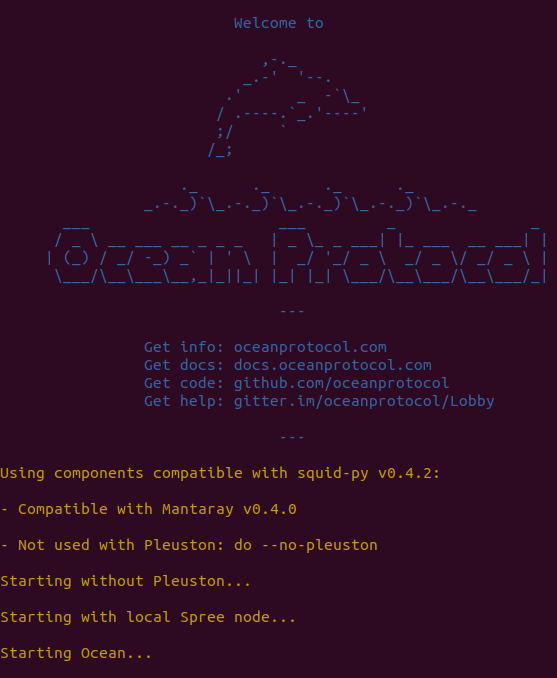
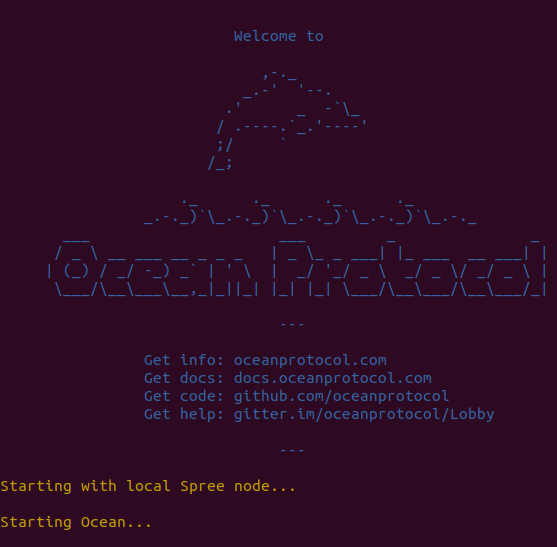
Removed new option, changed default vers, added --stable

diff --git a/README.md b/README.md
@@ -44,38 +44,46 @@ It's overkill, but to be _sure_ that you use exactly the Docker images and volum
 docker system prune --all --volumes
 ```
 
-(An alternative would be to add the options `--purge` and `--force-pull` in your call to `./start_ocean.sh` below but that's not as sure as the above command.)
+(An alternative would be to add the options `--purge` and `--force-pull` in your call to the `start_ocean.sh` script below but that's not as sure as the above command.)
 
-If you're new to Barge, it's best to pin components (e.g. Aquarius, Brizo and Keeper Contracts) to a set of specific versions known to work with a specific version of squid-py, squid-js, etc.
-For example, if you do:
+If you're new to Barge, it's best to do something like:
 
 ```bash
 git clone git@github.com:oceanprotocol/barge.git
 cd barge
-./start_ocean.sh --squid-py-v0.4.2-compatible --no-pleuston --local-spree-node
+
+./start_ocean.sh --local-spree-node
 ```
 
-then you'll freeze Aquarius, Brizo and Keeper Contracts at versions known to work with squid-py v0.4.2 (and Mantaray 0.4.0). The above command will also not run Pleuston (because squid-py users don't usually need to run Pleuston) and will run a local Spree node (explained more below).
+with no `--latest` or `--stable` option. That will run the current default versions of Aquarius, Brizo and Keeper Contracts (listed in the table below). It will also run the _latest_ version of Pleuston and a local Spree node (explained more below). If you don't specify what kind of local node to run (e.g. using `--local-spree-node`) then the default is to run a local Nile node (i.e. `--local-nile-node`).
 
 <img width="535" alt="Welcome to Ocean Protocol" src="Welcome_to_Ocean_Protocol.png">
 
----
-
-If you want to use the latest versions of Aquarius, Brizo, Keeper Contracts and Pleuston (with the Docker image tag `latest`, based on the `develop` branches), then include `--latest` in the call to `start_ocean.sh`. You can pin one or all of the versions (to something other than `latest` by setting some environment variables explicitly (e.g. `KEEPER_VERSION=v0.6.12`). Read the `start_ocean.sh` code for details.
-
-If you don't pin the versions of components (with an option like `--latest` or `--squid-py-v0.4.2-compatible`), then the default is to use the Docker images with Docker image tag `stable` (based on the `master` branches). You can pin one or all of the versions (to something other than `stable` by setting some environment variables explicitly (e.g. `KEEPER_VERSION=v0.6.12`). Read the `start_ocean.sh` code for details.
-
-If you don't specify what kind of local node to run (e.g. using `--local-spree-node`) then the default is to run a local Nile node (i.e. `--local-nile-node`).
-
 ## Script Options
 
-The `./start_ocean.sh` script provides the following options:
+Options that set the versions (Docker image tags) of Aquarius, Brizo, Keeper Contracts and Pleuston:
+
+Option      | Aquarius  | Brizo    | Keeper   | Pleuston | Notes
+------------|-----------|----------|----------|----------|-------
+`--latest`  | `latest`  | `latest` | `latest` | `latest` |
+`--stable`  | `stable`  | `stable` | `stable` | `stable` |
+(Default)   | `v0.1.10` | `v0.2.2` | `v0.6.12`| `latest` | Works with squid-py v0.4.2. Pleuston & squid-js not working yet.
+
+Note: The `latest` Docker image tag derives from the `develop` branch of the component's Git repo and the `stable` Docker image tag derives from the `master` branch.
+
+You can override the Docker image tag used for a particular component by setting its associated environment variable (`AQUARIUS_VERSION`, `BRIZO_VERSION`, `KEEPER_VERSION` or `PLEUSTON_VERSION`) before calling `start_ocean.sh`. For example:
+
+```bash
+export BRIZO_VERSION=v0.2.1
+./start_ocean.sh --local-spree-node
+```
+
+will use the default Docker image tags for Aquarius, Keeper Contracts and Pleuston, but `v0.2.1` for Brizo.
+
+Other `start_ocean.sh` options:
 
 Option                      | Description
 ----------------------------| -----------
-`--latest`                  | `latest` means to use the latest `develop` branches.
-`--squid-py-v0.4.2-compatible` | Use versions of Aquarius, Brizo and Keeper Contracts known to be compatible with squid-py v0.4.2.
-`--force-pull`              | Force pulling the latest revision of the used Docker images.
 `--no-pleuston`             | Start up Ocean without the `pleuston` Building Block. Helpful for development on `pleuston`.
 `--no-aquarius`             | Start up Ocean without the `aquarius` Building Block.
 `--no-brizo`                | Start up Ocean without the `brizo` Building Block.
@@ -86,11 +94,12 @@ Option                      | Description
 `--local-kovan-node`        | Runs a light node of the `kovan` network and connects the node to the `kovan` network.
 `--reuse-ganache-database`  | Configures a running `ganache` node to use a persistent database.
 `--acl-contract`            | Configures secret-store `acl_contract` option to enable secret-store authorization.
-`--purge`                   | Removes the containers, volumes, artifact folder and networks used by the script.
+`--force-pull`              | Force pulling the latest revision of the used Docker images.
+`--purge`                   | Removes the Docker containers, volumes, artifact folder and networks used by the script.
 
 ## Docker Building Blocks
 
-Ocean compose consists of a set of building blocks that can be combined to form a local test environment. By default all building blocks will be started with the `./start_ocean.sh` script.
+Barge consists of a set of building blocks that can be combined to form a local test environment. By default all building blocks will be started by the `start_ocean.sh` script.
 
 ### Pleuston
 
